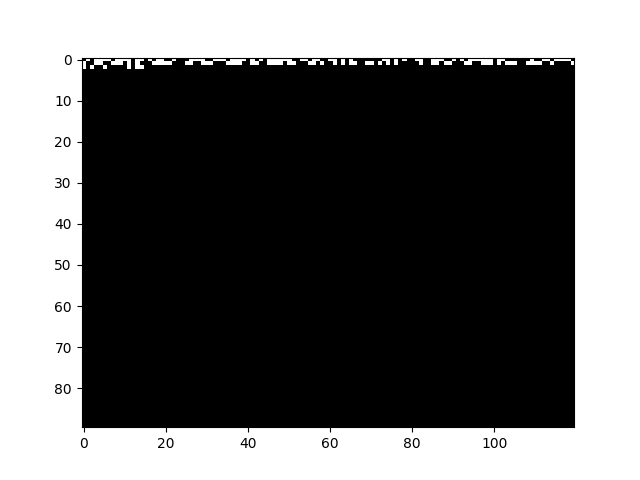
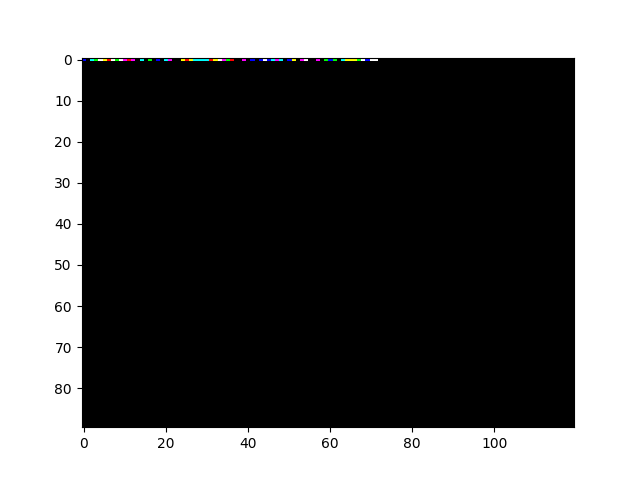
end of class 10/15

Changed region(s): [[0.125, 0.125, 0.625, 0.1562], [0.6562, 0.125, 0.875, 0.1562]]

diff --git a/tp2_team_3_11.py b/tp2_team_3_11.py
@@ -85,7 +85,7 @@ def encodeImage(binary_message,image_path,output_path):
                     value =image[i][j][k]
                     y=value % 2
                     bin_value=binary_message[pos:pos+1] 
-                    print(bin_value, y, image[i,j,k])
+                    # print(bin_value, y, image[i,j,k])
                     pos+=1
                     if int(bin_value)==y:
                         continue
@@ -93,7 +93,7 @@ def encodeImage(binary_message,image_path,output_path):
                         image[i,j,k]+=1
                     else:
                         image[i,j,k]-=1
-                    print(image[i,j,k])
+                    print(bin_value, image[i,j,k])
         
         pil_image = Image.fromarray(image)
         pil_image.save(output_path)
@@ -101,18 +101,18 @@ def encodeImage(binary_message,image_path,output_path):
     
 
 def main():
-    # message = "World"
-    # key = "Bear"
-    # start_seq = "007"
-    # end_seq = "700"
-    # imagePath = "ref_gry.png"
-    # outputPath = "ref_gry_e.png"
-    message = input("Enter the plaintext you want to encrypt: ")
-    key = input("Enter the key for Vigenere cipher: ")
-    start_seq = input("Enter the start sequence: ")
-    end_seq = input("Enter the end sequence: ")
-    imagePath = input("Enter the path of the image: ")
-    outputPath = input("Enter the path for the encoded image: ")
+    message = "Team 11 is exemplary!"
+    key = "RItwKtCnrV"
+    start_seq = "117"
+    end_seq = "711"
+    imagePath = "bear_col.png"
+    outputPath = "output.png"
+    # message = input("Enter the plaintext you want to encrypt: ")
+    # key = input("Enter the key for Vigenere cipher: ")
+    # start_seq = input("Enter the start sequence: ")
+    # end_seq = input("Enter the end sequence: ")
+    # imagePath = input("Enter the path of the image: ")
+    # outputPath = input("Enter the path for the encoded image: ")
     
     
     encrypted = v_encrypt(message, key)

diff --git a/tp2_team_1_11.py b/tp2_team_1_11.py
@@ -54,28 +54,30 @@ def compare_images(img1, img2, resultPath):
             value1 = img1[i][j] if(len(img1.shape)==3) else [img1[i][j]]
             value2 = img2[i][j] if(len(img2.shape)==3) else [img2[i][j]]
             for k in range(min(len(value1),3)):
-                
-                if(value1[k]%2==value2[k]%2):
+                if(value1[k]%2)==(value2[k]%2):
                     item.append(0)
                 else:
                     item.append(255)
                     different = True
+                # print(i, j, k, img1[i][j], img2[i][j], item[k])
             row.append([item[0],item[1],item[2]] if len(item)>1 else item[0])
+        # print(row)
         imgO.append(row)
     plt.imshow(imgO, cmap='gray', vmin= 0, vmax= 255)
     plt.savefig(resultPath)
     plt.show()
     return different
         
-
-
 def main():
-    path1 = input("Enter the path of your first image: ")
-    path2 = input("Enter the path of your second image: ")
-    pathDiff = input("Enter the path for the output image: ")
+    path1 = "bear_col.png"
+    path2 = "bear_col_020_11_v.png"
+    pathDiff = "diff.png"
+    # path1 = input("Enter the path of your first image: ")
+    # path2 = input("Enter the path of your second image: ")
+    # pathDiff = input("Enter the path for the output image: ")
     img1 = load_image(path1)
     img2 = load_image(path2)
-    if img1.ndim!=img2.ndim or img1.shape[0]!= img2.shape[0] or img1.shape[1] != img2.shape[1]:
+    if img1.ndim != img2.ndim or img1.shape[0] != img2.shape[0] or img1.shape[1] != img2.shape[1]:
         print("Cannot compare images in different modes (RGBA and L) or of different sizes.")
         print(img1.shape, img2.shape)
         return

diff --git a/tp2_team_2_11.py b/tp2_team_2_11.py
@@ -46,13 +46,13 @@ def v_encrypt(text, u_key):
             key_ord = ord(c)
             shift = (key_ord - 65)
             key_value.append(shift)
-
+    print(key_value)
     #main for loop that goes through all of the characters in the string
     new_message = ""
     for i in range(a):
         l = text[i]  
+        u = i % len(key_value)
         text_ord = ord(l) #cagegorizes what section it should go into
-        
         if l.isupper():
             new_text = (text_ord - 65)
             new_value = new_text + key_value[i % len(key_value)]
@@ -70,6 +70,7 @@ def v_encrypt(text, u_key):
             new_message += str(new_value)
         else: 
             new_message += l 
+        print(i, l, new_text, u_key[u:u+1], key_value[i % len(key_value)], chr(new_value + 97))
     return new_message
 
         
@@ -88,12 +89,17 @@ def to_binary(string):
 
 
 def main():
-    text = input("Enter the plaintext you want to encrypt: ")
-    key = input("Enter the key for Vigenere cipher: ")
-    start_seq = input("Enter the start sequence: ")
-    end_seq = input("Enter the end sequence: ")
+    # text = input("Enter the plaintext you want to encrypt: ")
+    # key = input("Enter the key for Vigenere cipher: ")
+    # start_seq = input("Enter the start sequence: ")
+    # end_seq = input("Enter the end sequence: ")
+    text = "Team 11 is praiseworthy!!!"
+    key = "RItwKtCnrV"
+    start_seq = "117"
+    end_seq = "711"
     
     new_message = v_encrypt(text, key)
+    print(f"Encrypted Message using Vigenere Cipher: {new_message}")
     binary = to_binary(start_seq + new_message + end_seq)
     print(f"Binary output message: {binary}")
 
